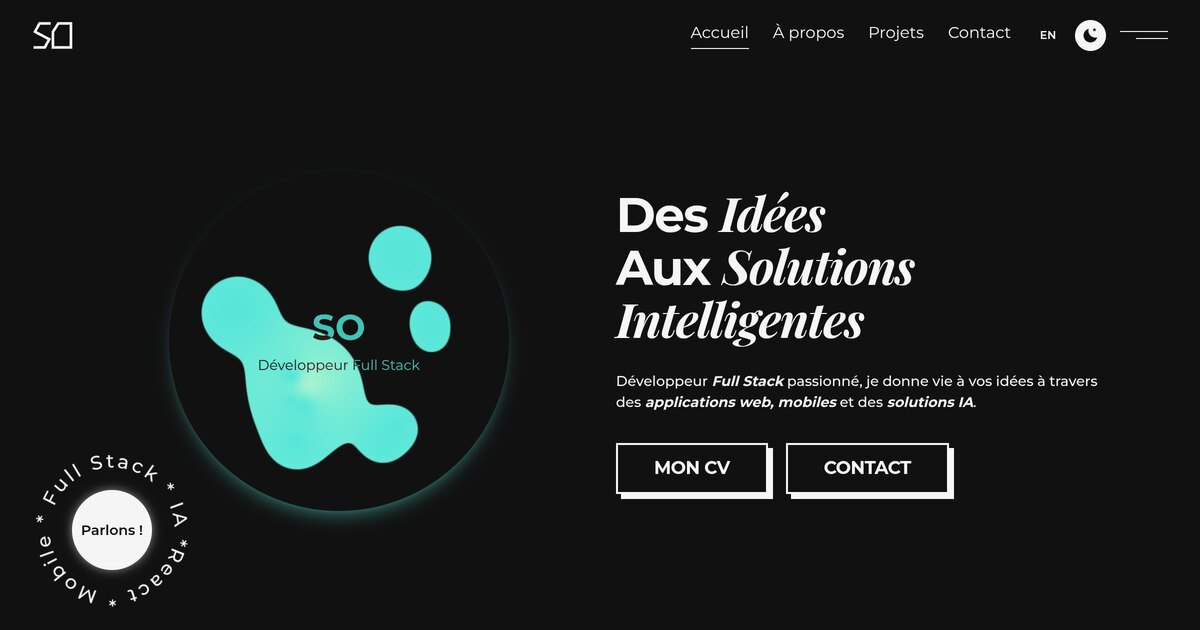
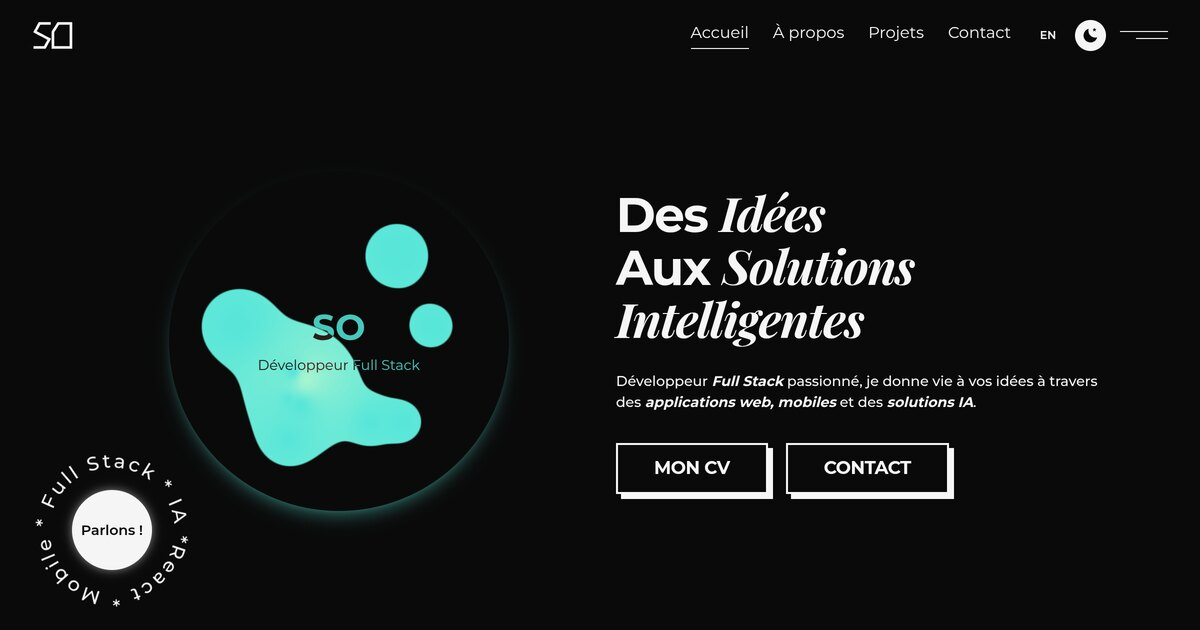
fix: thème sombre en vrai noir (#0a0a0a), comme la référence

diff --git a/src/pages/about.css b/src/pages/about.css
@@ -21,7 +21,7 @@
 .about-hero-name { position: absolute; top: 23%; left: 50%; transform: translateX(-50%); width: max-content; font-size: 19.3vw; font-weight: 800; letter-spacing: -.065em; line-height: 1; color: #fff; animation: about-name-enter 1s ease backwards; }
 .about-hero-portrait { position: absolute; z-index: 1; bottom: -5%; left: 50%; transform: translateX(-50%); transform-origin: 50% 100%; scale: calc(1 - var(--f) * .3); translate: 0 calc(var(--f) * -12%); width: min(72vw, 830px); height: 88%; object-fit: contain; object-position: center bottom; filter: grayscale(1) contrast(1.08); animation: about-portrait-enter 1s ease backwards; }
 .about-hero-name, .about-hero-copy, .about-hero-scroll { opacity: calc(1 - var(--f) * 1.7); }
-.about-signature { position: absolute; z-index: 3; left: calc(var(--frame-x) + 2%); bottom: calc(14% + 1%); padding: .3em .35em; font-family: "Monsieur La Doulaise", cursive; font-size: clamp(64px, 7vw, 120px); line-height: 1; color: #111; clip-path: inset(0 calc((1 - var(--s)) * 100%) 0 0); pointer-events: none; }
+.about-signature { position: absolute; z-index: 3; left: calc(var(--frame-x) + 2%); bottom: calc(14% + 1%); padding: .3em .35em; font-family: "Monsieur La Doulaise", cursive; font-size: clamp(64px, 7vw, 120px); line-height: 1; color: #0a0a0a; clip-path: inset(0 calc((1 - var(--s)) * 100%) 0 0); pointer-events: none; }
 .about-hero-copy { position: absolute; z-index: 3; bottom: 80px; left: 56px; }
 .about-hero-copy p { font-family: "Monsieur La Doulaise", cursive; font-size: clamp(44px, 5vw, 80px); line-height: 1; font-weight: 400; }
 .about-hero-copy h1 { font-size: clamp(30px, 4.3vw, 66px); letter-spacing: -.05em; line-height: 1.15; font-weight: 750; }
@@ -101,7 +101,7 @@
 
 /* Panneaux plein écran épinglés : chacun glisse par-dessus le précédent. */
 .expertise-section > .about-section { padding-bottom: 40px; }
-.service-panel { position: sticky; top: 0; height: 100svh; min-height: 560px; display: grid; place-items: center; overflow: hidden; isolation: isolate; background: #111; color: #fff; }
+.service-panel { position: sticky; top: 0; height: 100svh; min-height: 560px; display: grid; place-items: center; overflow: hidden; isolation: isolate; background: #0a0a0a; color: #fff; }
 .service-panel > img { position: absolute; inset: 0; z-index: -1; width: 100%; height: 100%; object-fit: cover; scale: 1.06; filter: grayscale(1) brightness(.4) contrast(1.1) blur(7px); }
 .service-panel-copy { width: min(940px, calc(100% - 48px)); text-align: center; }
 .service-panel-index { font-size: 12px; letter-spacing: .2em; opacity: .7; }

diff --git a/src/pages/work.css b/src/pages/work.css
@@ -21,7 +21,7 @@
 .work-filters { display: flex; flex-wrap: wrap; gap: 10px; padding: 22px 0 0; }
 .work-filters[hidden] { display: none; }
 .work-filters button { border: 1px solid color-mix(in srgb, var(--ink) 35%, transparent); border-radius: 30px; color: var(--ink); background: transparent; padding: 10px 18px; font: 500 13px Montserrat, sans-serif; cursor: pointer; }
-.work-filters button[aria-pressed="true"] { background: var(--accent); border-color: var(--accent); color: #111; }
+.work-filters button[aria-pressed="true"] { background: var(--accent); border-color: var(--accent); color: #0a0a0a; }
 .work-result-count { margin: 15px 0 20px; font-size: 12px; opacity: .6; }
 .work-projects--grid { display: grid; grid-template-columns: repeat(2, minmax(0, 1fr)); gap: 50px 40px; }
 .work-card { min-width: 0; }
@@ -29,7 +29,7 @@
 .work-card-image { display: block; overflow: hidden; position: relative; border-radius: 15px; background: color-mix(in srgb, var(--ink) 7%, var(--bg)); }
 .work-card-image img { display: block; width: 100%; height: 100%; aspect-ratio: 1.8; object-fit: contain; transition: transform .6s cubic-bezier(.2,.65,.3,1); }
 .work-card-image:hover img, .work-card-image:focus-visible img { transform: scale(1.04); }
-.work-image-action { position: absolute; inset: auto 14px 14px auto; display: flex; gap: 10px; align-items: center; background: var(--accent); color: #111; border-radius: 100px; padding: 11px 16px; font-size: 12px; font-weight: 600; opacity: 0; transform: translateY(8px); transition: opacity .25s, transform .25s; }
+.work-image-action { position: absolute; inset: auto 14px 14px auto; display: flex; gap: 10px; align-items: center; background: var(--accent); color: #0a0a0a; border-radius: 100px; padding: 11px 16px; font-size: 12px; font-weight: 600; opacity: 0; transform: translateY(8px); transition: opacity .25s, transform .25s; }
 .work-image-action svg { width: 14px; height: 14px; }
 .work-card-image:hover .work-image-action, .work-card-image:focus-visible .work-image-action { opacity: 1; transform: none; }
 .work-card-copy { padding: 22px 0 3px; }

diff --git a/src/styles.css b/src/styles.css
@@ -5,7 +5,7 @@
 @font-face{font-family:'Monsieur La Doulaise';src:url('/fonts/monsieur-latin.woff2') format('woff2');font-style:normal;font-weight:400;font-display:swap}
 
 :root {
-    --bg:#111111; --ink:#f5f5f5; --accent:#58e6d9; --muted:#a3a3a3;
+    --bg:#0a0a0a; --ink:#f5f5f5; --accent:#58e6d9; --muted:#a3a3a3;
     --line:color-mix(in srgb,var(--ink) 27%,transparent); --soft:color-mix(in srgb,var(--ink) 5%,var(--bg));
     --body:'Montserrat',Arial,sans-serif; --display:var(--body); --mono:var(--body);
     --abyss:var(--bg); --foam:var(--ink); --silt:var(--muted); --seaglass:var(--accent);
@@ -65,7 +65,7 @@ svg{display:block}
 .social-links a{display:grid;place-items:center;width:48px;height:48px;border-radius:50%;background:var(--ink);color:var(--bg);transition:transform .25s,background .25s}
 .social-links a:hover{transform:translateY(-4px);background:var(--accent)}
 .social-links svg{width:26px;height:26px}
-.full-menu .social-links a{background:#111;color:#f5f5f5;width:34px;height:34px}
+.full-menu .social-links a{background:#0a0a0a;color:#f5f5f5;width:34px;height:34px}
 .full-menu .social-links svg{width:20px;height:20px}
 .raised-button,.btn{letter-spacing:-.025em;display:inline-flex;position:relative;isolation:isolate;align-items:center;justify-content:center;min-height:51px;padding:10px 38px;border:2px solid var(--ink);box-shadow:5px 5px 0 var(--ink);color:var(--ink);background:var(--bg);font-size:18px;font-weight:700;text-transform:uppercase;line-height:1.5;transition:color .3s,box-shadow .3s,transform .3s;white-space:nowrap}
 .raised-button::before,.btn::before{content:'';position:absolute;inset:0;background:var(--ink);z-index:-1;transform:scaleY(0);transform-origin:bottom;transition:transform .35s var(--ease)}

diff --git a/src/components/footer.css b/src/components/footer.css
@@ -13,7 +13,7 @@
 .footer-invitation-first { display: flex; align-items: center; flex-wrap: wrap; gap: 14px; }
 .footer-invitation-second { display: block; margin-top: 12px; }
 .footer-invitation em { font-family: "Playfair Display", Georgia, serif; font-weight: 700; }
-.changing-word { font: inherit; line-height: 1.2; color: #111; background: var(--accent); padding: 8px 20px 12px; border: 0; border-radius: 8px; overflow: hidden; text-align: center; cursor: pointer; transition: background .25s, box-shadow .25s; }
+.changing-word { font: inherit; line-height: 1.2; color: #0a0a0a; background: var(--accent); padding: 8px 20px 12px; border: 0; border-radius: 8px; overflow: hidden; text-align: center; cursor: pointer; transition: background .25s, box-shadow .25s; }
 .changing-word:hover { box-shadow: 0 0 0 5px color-mix(in srgb, var(--accent) 20%, transparent); }
 .changing-word span { display: block; animation: footer-word-in .5s cubic-bezier(.22,1,.36,1) both; }
 .footer-contact-row { display: flex; align-items: flex-end; justify-content: space-between; gap: 32px; margin-top: 90px; padding-bottom: 70px; }

diff --git a/src/components/preloader.css b/src/components/preloader.css
@@ -1,6 +1,6 @@
 .preloader { position: fixed; inset: 0; z-index: 200; pointer-events: none; }
 /* Couleurs fixes : le rideau reste sombre / clair / sombre quel que soit le thème. */
-.preloader-curtain { position: fixed; inset: 0; transform-origin: 50% 0; background: #111; animation: preloader-lift .8s cubic-bezier(.42, 0, .58, 1) var(--lift) forwards; }
+.preloader-curtain { position: fixed; inset: 0; transform-origin: 50% 0; background: #0a0a0a; animation: preloader-lift .8s cubic-bezier(.42, 0, .58, 1) var(--lift) forwards; }
 .preloader-curtain:nth-child(1) { z-index: 3; }
 .preloader-curtain:nth-child(2) { z-index: 2; background: #f5f5f5; animation-timing-function: cubic-bezier(.85, 0, .15, 1); animation-delay: calc(var(--lift) + 200ms); }
 .preloader-curtain:nth-child(3) { z-index: 1; animation-delay: calc(var(--lift) + 400ms); }

diff --git a/src/components/page-transition.css b/src/components/page-transition.css
@@ -4,7 +4,7 @@
 .page-transition-cover { background: var(--accent); animation: page-cover .7s cubic-bezier(.65, 0, .35, 1) both; }
 .page-transition-layer { animation: page-reveal .8s cubic-bezier(.42, 0, .58, 1) both; }
 .page-transition-layer:nth-child(1) { z-index: 3; background: var(--accent); }
-.page-transition-layer:nth-child(2) { z-index: 2; background: #111; animation-delay: .2s; }
+.page-transition-layer:nth-child(2) { z-index: 2; background: #0a0a0a; animation-delay: .2s; }
 .page-transition-layer:nth-child(3) { z-index: 1; background: #f5f5f5; animation-delay: .4s; }
 @keyframes page-cover { from { transform: scaleX(0); } }
 @keyframes page-reveal { to { transform: scaleX(0); } }

diff --git a/src/App.jsx b/src/App.jsx
@@ -26,7 +26,7 @@ function Portfolio() {
     useEffect(() => {
         document.documentElement.dataset.theme = theme
         document.documentElement.style.colorScheme = theme
-        document.querySelector('meta[name="theme-color"]')?.setAttribute("content", theme === "dark" ? "#111111" : "#f5f5f5")
+        document.querySelector('meta[name="theme-color"]')?.setAttribute("content", theme === "dark" ? "#0a0a0a" : "#f5f5f5")
         try { localStorage.setItem("portfolio-theme", theme) } catch { /* Storage can be disabled. */ }
     }, [theme])
 

diff --git a/index.html b/index.html
@@ -19,7 +19,7 @@
         <meta name="viewport" content="width=device-width, initial-scale=1">
         <meta name="format-detection" content="address=no"/>
         <meta name="color-scheme" content="dark light">
-        <meta name="theme-color" content="#111111"/>
+        <meta name="theme-color" content="#0a0a0a"/>
 
         <!-- Meta: SEO -->
         <meta name="description" content="Portfolio de Sayouba Ouedraogo — Développeur Full Stack (web, mobile, IA). Projets, expériences et contact."/>

diff --git a/src/components/liquid-orb.css b/src/components/liquid-orb.css
@@ -6,7 +6,7 @@
     isolation: isolate;
     overflow: hidden;
     border-radius: 50%;
-    background: var(--bg, #111);
+    background: var(--bg, #0a0a0a);
     --orb-glow: color-mix(in srgb, var(--accent, #58e6d9) 30%, transparent);
     box-shadow: 0 10px 15px -3px var(--orb-glow), 0 4px 6px -4px var(--orb-glow);
     transition: box-shadow .3s;
